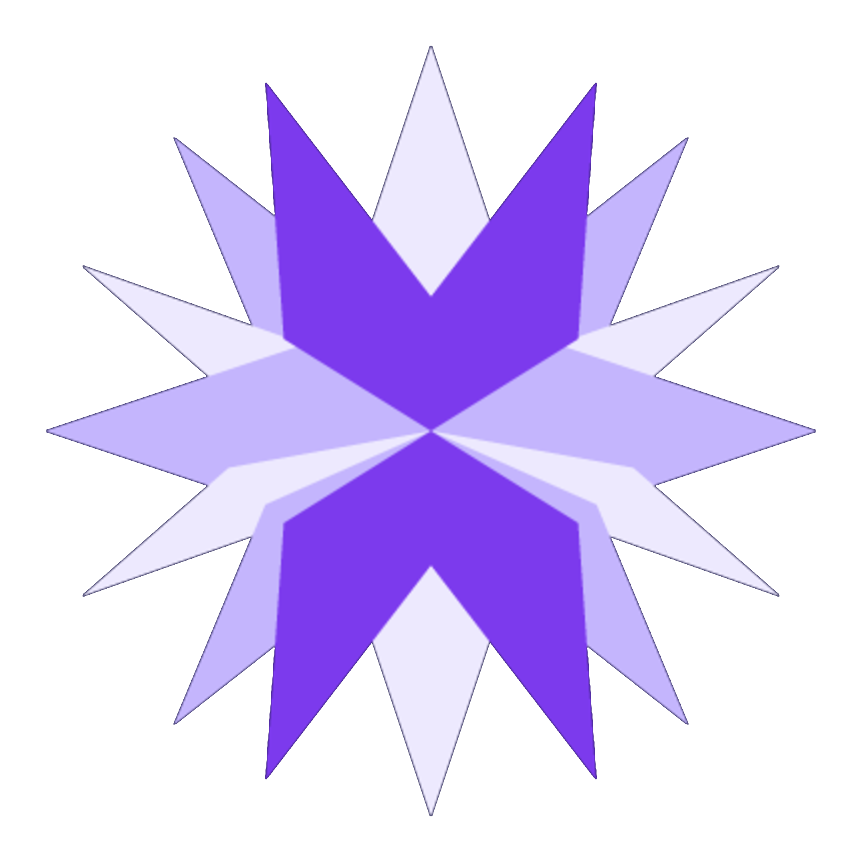
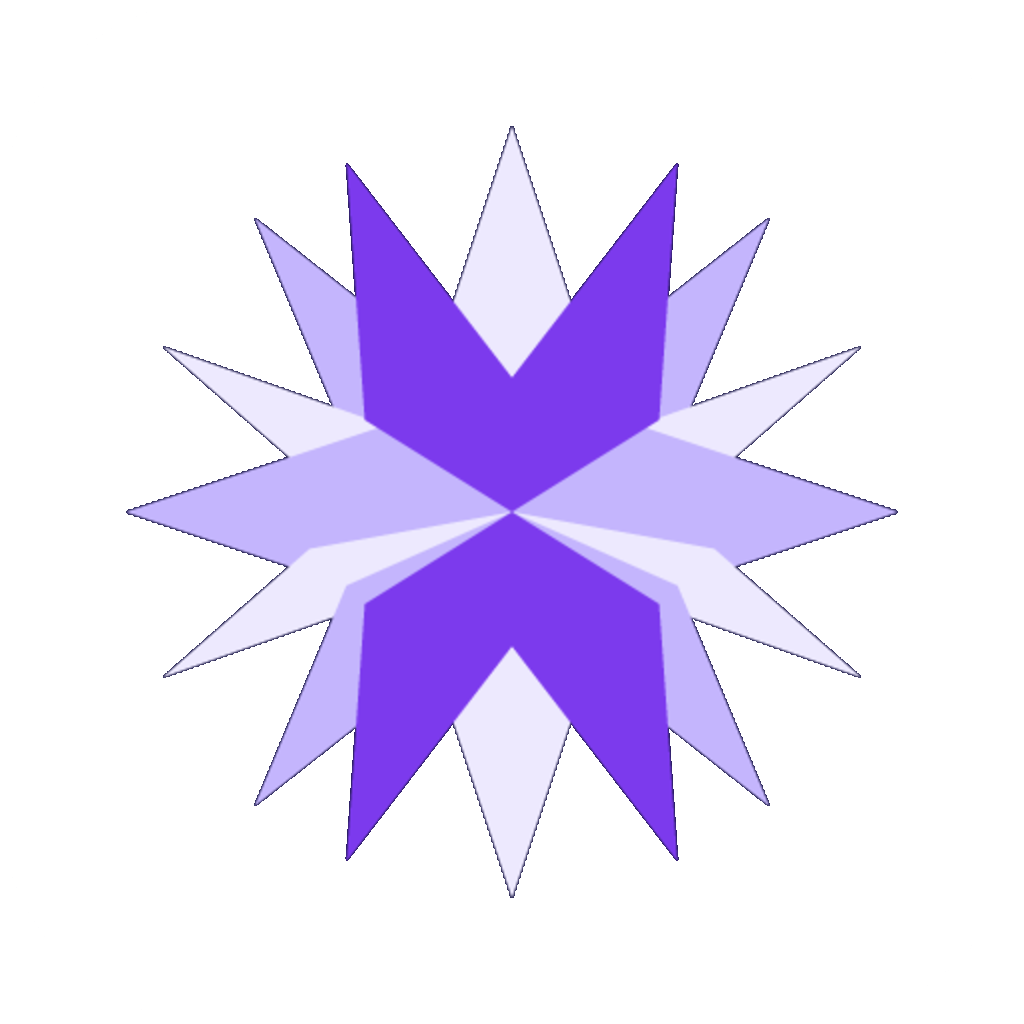
fix(brand): use the official Maho star across the shells
The shipped star artwork had drifted from the brand mark in MahoLogo:
its points were uneven and asymmetric. Regenerate it from that logo,
rebuild the Android launcher icons around it, and render the home hero
with Image so the three-tone mark keeps its colours instead of being
flattened by a single tint.

diff --git a/maho/android-shell/app/src/main/java/dev/maho/browser/ui/HomeSearchScreen.kt b/maho/android-shell/app/src/main/java/dev/maho/browser/ui/HomeSearchScreen.kt
@@ -1,6 +1,7 @@
 package dev.maho.browser.ui
 
 import androidx.compose.foundation.BorderStroke
+import androidx.compose.foundation.Image
 import androidx.compose.foundation.background
 import androidx.compose.foundation.clickable
 import androidx.compose.foundation.layout.Arrangement
@@ -156,10 +157,9 @@ private fun MahoHomeHeroLogo(isIncognito: Boolean, compact: Boolean = false) {
             modifier = Modifier.size(if (compact) 64.dp else 96.dp),
         ) {
             Box(contentAlignment = Alignment.Center) {
-                Icon(
+                Image(
                     painter = painterResource(id = R.drawable.ic_maho_star),
                     contentDescription = "Maho Star",
-                    tint = starColor,
                     modifier = Modifier.size(if (compact) 36.dp else 56.dp),
                 )
             }
